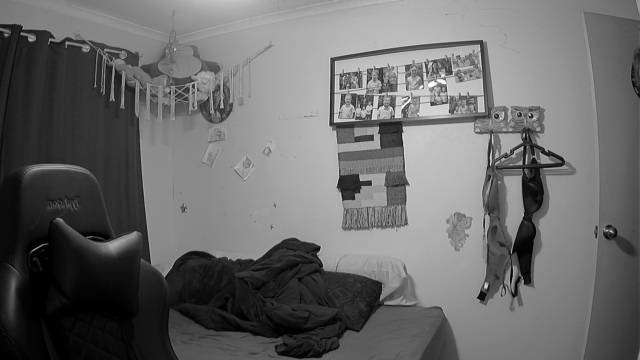
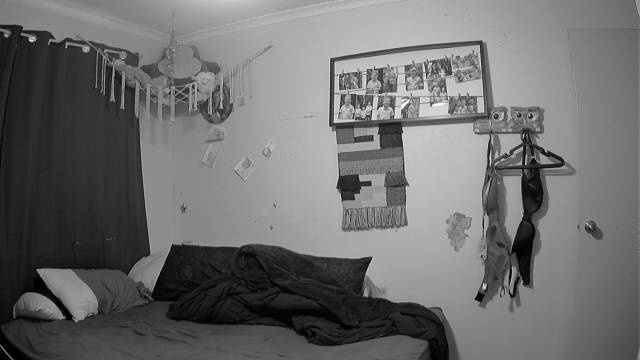
Montion capture has been added, also fixed background capture toggle

diff --git a/motion_detection.py b/motion_detection.py
@@ -10,16 +10,38 @@ video = cv2.VideoCapture(0)
 video.set(3, 640)
 video.set(4, 480)
 
+if CAPTURE_STATIC_BACKGROUND == True:
+    start_time = time.time()
+
+    while True:
+        check, frame = video.read()
+        frame = cv2.flip(frame, 1)
+        gray = cv2.cvtColor(frame, cv2.COLOR_BGR2GRAY)
+
+        if time.time() - start_time > timer:
+            bg_path = os.path.join("files", "background_gray.jpg")
+            cv2.imwrite(bg_path, gray)
+            print("[INFO] Background saved to", bg_path)
+            break
+
+        cv2.imshow("Capturing", frame)
+        if cv2.waitKey(1) == ord("q"):
+            break
+
+    video.release()
+    cv2.destroyAllWindows()
+
+video = cv2.VideoCapture(0)
+video.set(3, 640)
+video.set(4, 480)
+
 avg_background = None
-if not ADAPTIVE_BACKGROUND and not CAPTURE_STATIC_BACKGROUND:
+if not ADAPTIVE_BACKGROUND:
     still_background_path = os.path.join("files", "background_gray.jpg")
     if not os.path.exists(still_background_path):
         print("[ERROR] Static background not found. Set CAPTURE_STATIC_BACKGROUND = True to create one.")
         exit()
     still_background = cv2.imread(still_background_path, 0)
-
-if CAPTURE_STATIC_BACKGROUND == True:
-    start_time = time.time()
 
 while True:
     check, frame = video.read()
@@ -43,16 +65,22 @@ while True:
 
         delta = cv2.absdiff(gray_still, gray)
 
+    threshold = cv2.threshold(delta, 30, 255, cv2.THRESH_BINARY)[1]
+    threshold = cv2.dilate(threshold, None, iterations = 3)
+
+    (cnts,_) = cv2.findContours(threshold.copy(), cv2.RETR_EXTERNAL, cv2.CHAIN_APPROX_SIMPLE)
+
+    for contour in cnts:
+        if cv2.contourArea(contour) < 1500:
+            continue
+
+        (x, y, w, h) = cv2.boundingRect(contour)
+        cv2.rectangle(frame, (x, y), (x + w, y + h), (0, 255, 0), 2)
+
     cv2.imshow("Capturing", frame)
 
     key = cv2.waitKey(1)
-
-    if CAPTURE_STATIC_BACKGROUND == True:
-        if time.time() - start_time > timer:
-            cv2.imwrite("background_gray.jpg", gray)
-            break
-    
-    
+ 
     if key == ord("q"):
         break
 
